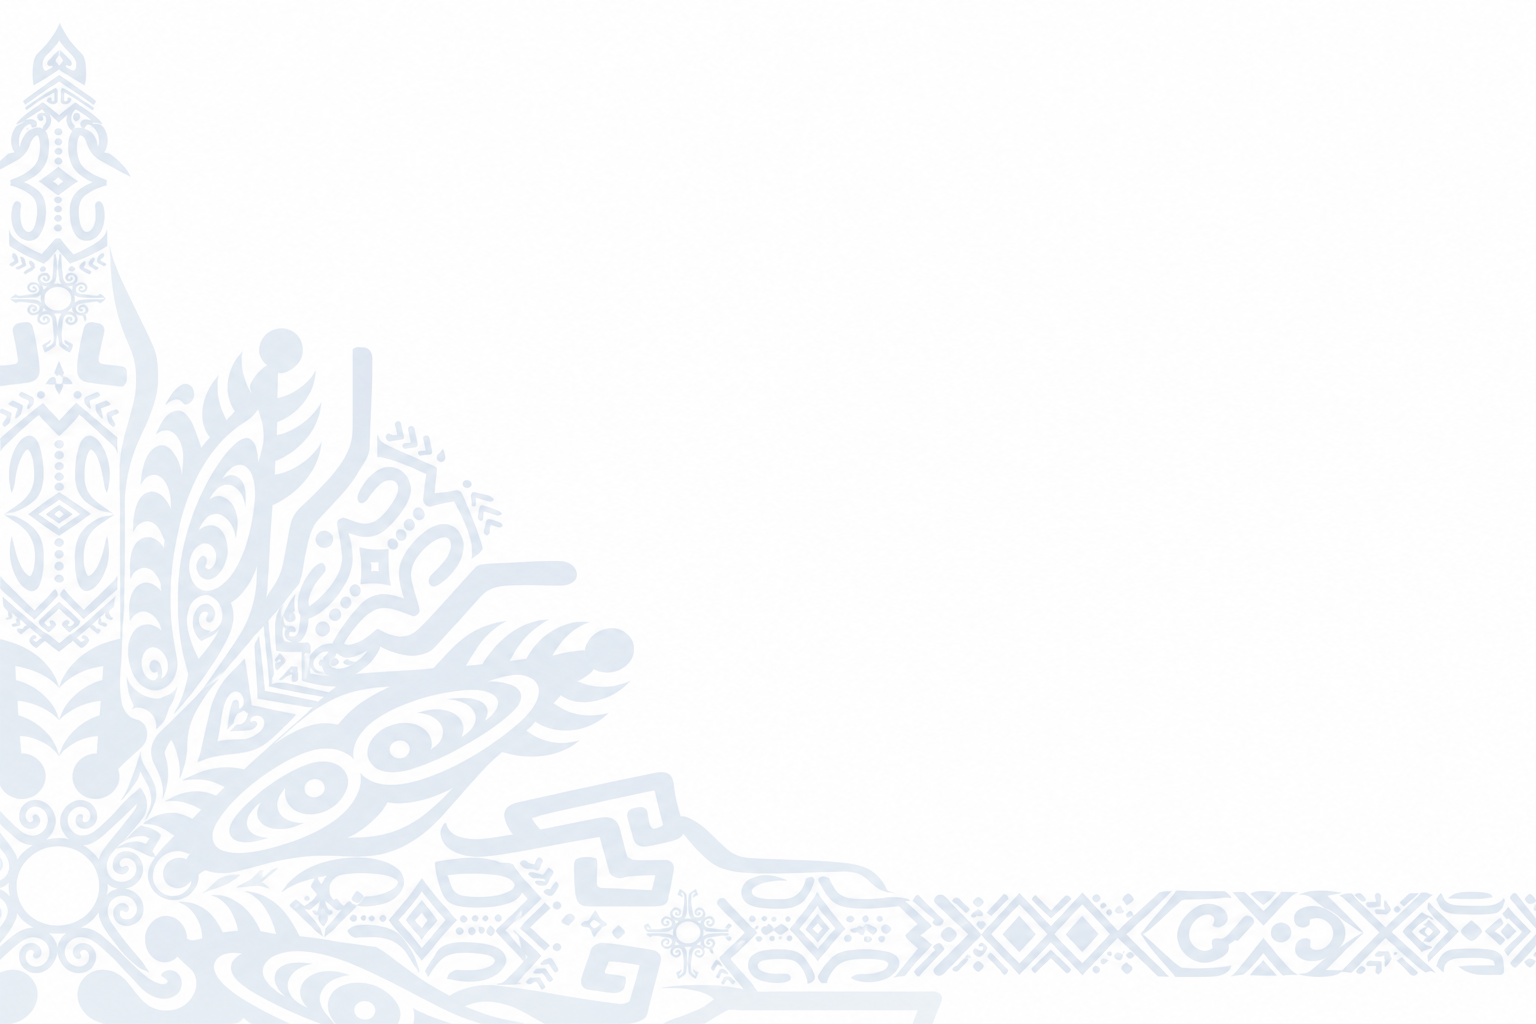
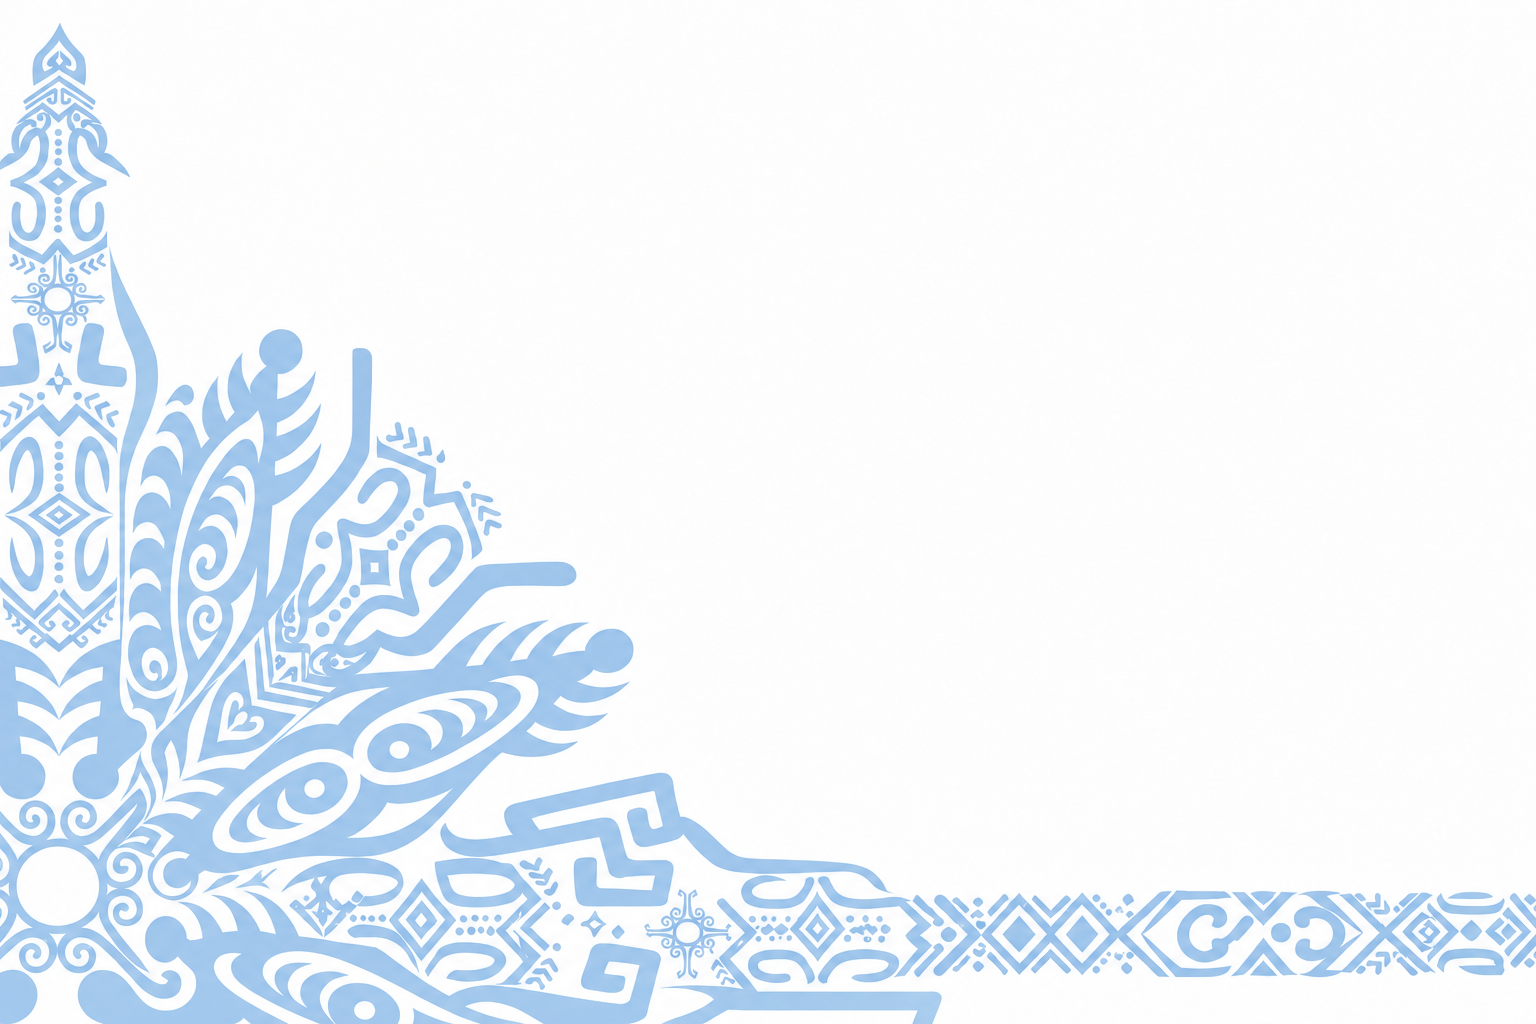
Add bg2 background image to Tentang Kami section

Changed region(s): [[0.0, 0.0312, 1.0, 1.0]]

diff --git a/src/components/TentangKami.tsx b/src/components/TentangKami.tsx
@@ -4,8 +4,17 @@ import { Placeholder } from "@/components/Placeholder";
 
 export default function TentangKami() {
   return (
-    <section id="tentang-kami" aria-labelledby="about-heading" className="section bg-white bleed bleed-white">
-      <div className="wrap">
+    <section id="tentang-kami" aria-labelledby="about-heading" className="section relative overflow-hidden bg-white bleed bleed-white">
+      {/* eslint-disable-next-line @next/next/no-img-element -- section background image, no optimization needed */}
+      <img
+        src="/bg2.png"
+        alt=""
+        aria-hidden="true"
+        loading="lazy"
+        className="pointer-events-none absolute inset-0 h-full w-full object-cover"
+      />
+      <div aria-hidden="true" className="pointer-events-none absolute inset-0 bg-white/85" />
+      <div className="wrap relative">
         <h2 id="about-heading" className="max-w-[35ch] text-step-3 font-bold text-navy-deep">
           Tentang {SITE.name}
         </h2>
